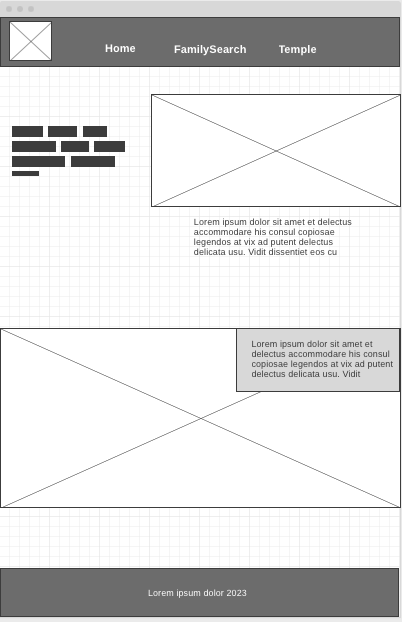
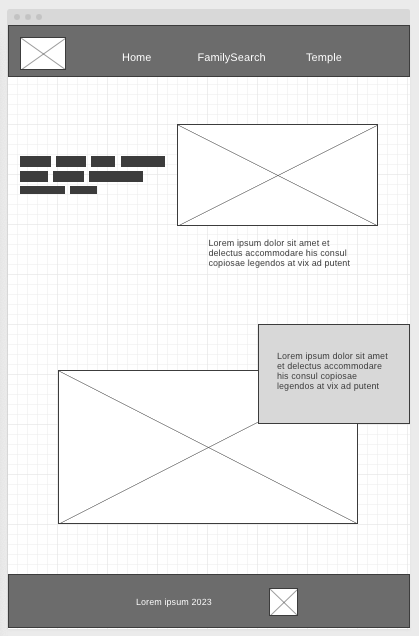
Change wireframe, home page style added

diff --git a/genealogy-and-church/index.html b/genealogy-and-church/index.html
@@ -5,10 +5,11 @@
     <meta http-equiv="X-UA-Compatible" content="IE=edge">
     <meta name="viewport" content="width=device-width, initial-scale=1.0">
     <title>Genealogy | The Church of Jesus Christ of Latter-day Saints</title>
+    <link type="text/css" rel="stylesheet" href="styles/style.css"> 
 </head>
 <body>
     <header>
-        <a id="logo_link" href="index.html"><img src="images/genealogy-logos.webp" alt="genealogy logo"></a>
+        <a id="logo_link" href="index.html"><img id="logo" src="images/genealogy-logos.webp" alt="genealogy logo"></a>
         <nav>
             <a href="index.html">Home</a>
             <a href="familysearch.html">FamilySearch</a>
@@ -16,29 +17,22 @@
         </nav>
     </header> 
     <main>
-        <div id="family_banner">
-            <img src="images/different_family_group.webp" alt="different family group with cartoon style">
-            <h1>Family is the most important part of one’s life.</h1>
-        </div>
+        <img id="family_banner" src="images/different_family_group.webp" alt="different family group with cartoon style">
+        <h1>Family is the most important part of one’s life.</h1>
         <div id="family_quote">
-            <div id="quote_background"></div>
-            <p>
-                <q>We are part of a divine plan designed by Heavenly Parents who love us.</q>
-                -- M. Russell Ballard, a member of the Quorum of the Twelve Apostles of The Church of Jesus Christ of Latter–day Saints
-            </p>
+            <q>We are part of a divine plan designed by Heavenly Parents who love us.</q>
+            <p>-- M. Russell Ballard, a member of the Quorum of the Twelve Apostles of The Church of Jesus Christ of Latter–day Saints</p>
         </div>
-        <div>
-            <p class="introduce">
-                In God’s plan, we can be with God and also our family forever, which means not only in this life but the life after death.
-                 So, it is meaningful to find our deceased ancestors and help them to do ordinances that God requests for each of his children.
-                 The Church of Jesus Christ of Latter-day Saints performs these ordinances just like the ancient time mentioned in the Bible (1 Corinthians 15:19).
-            </p>
-            <img src="images/god_children.webp" alt="God and children with angels behind">
-        </div>
+        <p id="family_intro">
+            In God’s plan, we can be with God and also our family forever, which means not only in this life but the life after death.
+                So, it is meaningful to find our deceased ancestors and help them to do ordinances that God requests for each of his children.
+                The Church of Jesus Christ of Latter-day Saints performs these ordinances just like the ancient time mentioned in the Bible (1 Corinthians 15:19).
+        </p>
+        <img src="images/god_children.webp" alt="God and children with angels behind">
     </main>
     <footer>
         <p>&copy; 2023 - Yun Liu</p>
-        <a href="site-plan.html">Site Plan</a>
+        <p><a href="site-plan.html">Site Plan</a></p>
     </footer>
 </body>
 </html>

diff --git a/genealogy-and-church/styles/style.css b/genealogy-and-church/styles/style.css
@@ -1,0 +1,149 @@
+
+@import url('https://fonts.googleapis.com/css2?family=Merienda&family=Patrick+Hand&display=swap');
+
+:root {
+  --primary-color: #F2EEE4;
+  --secondary-color: #5065A8;
+  --accent1-color: #E6F0EC;
+  --accent2-color: white;
+
+  --heading-font: 'Merienda', cursive;
+  --paragraph-font: 'Patrick Hand', cursive;
+
+  /* these colors below should be chosen from among your palette colors above */
+  --headline-color-on-white: #5065A8;  /* headlines on a white background */ 
+  --headline-color-on-color: #5065A8; /* headlines on a colored background */ 
+  --paragraph-color-on-white: #5065A8; /* paragraph text on a white background */ 
+  --paragraph-color-on-color: #5065A8; /* paragraph text on a colored background */ 
+  --paragraph-background-color: #F2EEE4;
+  --nav-link-color: #E6F0EC;
+  --nav-background-color: #5065A8;
+  --nav-hover-link-color: #5065A8;
+  --nav-hover-background-color: #E6F0EC;
+}
+
+#logo {
+    width: 80px;
+    border-radius: 20%;
+}
+
+#logo_link {
+    justify-self: center;
+    align-self: center;
+}
+
+header {
+    display: grid;
+    grid-template-columns: 150px auto;
+    background-color: var(--secondary-color);
+}
+
+nav {
+    display: flex;
+    justify-content: center;
+
+    margin-left: -150px;
+}
+
+nav a {
+    padding: 40px;
+    font-size: 2em;
+    color: var(--nav-link-color);
+    text-decoration: none;
+}
+
+nav a:hover {
+    background-color: var(--nav-hover-background-color);
+    color: var(--nav-hover-link-color);
+}
+
+body {
+    background-color: var(--paragraph-background-color);
+    font-family: var(--paragraph-font);
+    max-width: 1600px;
+    margin: 0 auto;
+    padding: 0;
+    color: var(--secondary-color);
+}
+
+main {
+    display: grid;
+    grid-template-columns: repeat(8, 1fr);
+}
+
+#family_banner {
+   grid-column: 1/-1; 
+   grid-row: 1;
+
+   width: 100%;
+}
+
+h1 {
+    grid-column: 1 / -1;
+    grid-row: 1;
+    font-family: var(--heading-font);
+    color: var(--headline-color-on-color);
+    padding: 20px 80px;
+}
+
+p {
+    font-size: x-large;
+    line-height: 2em;
+}
+
+#family_quote {
+    grid-column: 2 / -2;
+    grid-row: 5 / 6;
+
+    height: fit-content;
+    width: fit-content;
+    border-radius: 15px;
+    border: 5px solid var(--secondary-color);
+    padding: 25px;
+    margin: 200px auto;
+}
+
+#family_quote q {
+    font-size: xx-large;
+}
+
+#family_quote p {
+    text-align: right;
+}
+
+#family_intro {
+    grid-column: 2 / 5;
+    grid-row: 8 / 10;
+}
+
+#family_intro + img {
+    grid-column: 6 / -2;
+    grid-row: 7 / 11;
+
+    width: 500px;
+    margin-bottom: 100px;
+    border-radius: 10px;
+}
+
+footer {
+    background-color: var(--secondary-color);
+    color: var(--accent1-color);
+    display: flex;
+    /* align-items: center; */
+    justify-content: center;
+}
+
+footer p {
+    margin: 24px 50px;
+}
+
+footer a {
+    font-size: x-large;
+    color: var(--nav-link-color);
+    text-decoration: none;
+}
+
+footer a:hover {
+    text-decoration: underline;
+    color: var(--primary-color);
+}
